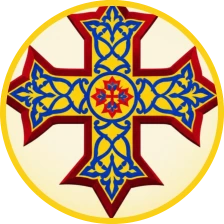
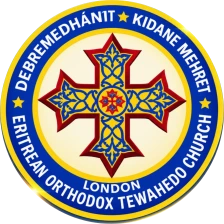
Serve the whole Kidane Mihret badge, not a crop of it
Reverses yesterday's crop. The blue ring is the badge, and cutting it out
to enlarge the cross was wrong.

The reasoning had been borrowed from diocese-midlands: ring lettering is
illegible below about 60px, so crop to the emblem. Three things said the
precedent did not transfer, and I should have read any of them.

The blue ring is the club's dominant colour and the thing that identifies
it on a 24px tile. Text nobody can read at that size is what every real
football crest has; it is not a defect to remove.

The crop needed an INVENTED gold rim to work at all. The club colour is
#FFFFFF and the cropped disc is cream, so removing the ring left the
crest with no edge and a hairline had to be fabricated to replace the
structure the crop had deleted. Having to invent a substitute for what
you just removed is the tell, and it was in my own commit.

And it measured worse at every size. Ink against white:

                62px    44px    24px    22px
  whole badge   61.9%   61.5%   62.7%   64.3%
  cropped       51.9%   51.9%   52.4%   51.7%
  old monogram    -     20.1%     -       -

What made diocese-midlands different: a fine-detailed coat of arms
filling a third of its frame, in a slot only ever drawn at 24px. Here the
emblem is a bold cross and the largest slot is 62px. Recorded in both
CLAUDE.md and source-art/README.md as a rule - check that a precedent's
conditions hold before borrowing its conclusion.
[…]

diff --git a/web/sw.js b/web/sw.js
@@ -7,7 +7,7 @@
  * last-known copy for offline boot. Bump VERSION on any deploy that should
  * push a fresh shell.
  */
-const VERSION = 'cofta-v88';
+const VERSION = 'cofta-v89';
 const SHELL = [
   './', './index.html', './diocese.webp',
   // Code and stylesheets carry the build token, because THE BROWSER'S OWN HTTP
@@ -17,9 +17,9 @@ const SHELL = [
   // be answered from it, because on a fresh deploy the URL is one the browser
   // has never seen. These must stay in step with index.html and app.js;
   // tools/check-build.sh fails if they drift.
-  './styles.css?b=cofta-v88', './fonts.css?b=cofta-v88', './themes.css?b=cofta-v88',
-  './app.js?b=cofta-v88', './api.js?b=cofta-v88', './model.js?b=cofta-v88',
-  './queue.js?b=cofta-v88', './crests.js?b=cofta-v88',
+  './styles.css?b=cofta-v89', './fonts.css?b=cofta-v89', './themes.css?b=cofta-v89',
+  './app.js?b=cofta-v89', './api.js?b=cofta-v89', './model.js?b=cofta-v89',
+  './queue.js?b=cofta-v89', './crests.js?b=cofta-v89',
   './manifest.webmanifest',
   // The home-screen icons. Cache-first like every other asset, so a phone
   // that already installed the app only refetches them when VERSION moves.

diff --git a/web/index.html b/web/index.html
@@ -13,9 +13,9 @@
 <link rel="apple-touch-icon" sizes="180x180" href="./apple-touch-icon.png">
 <link rel="preload" href="./fonts/big-shoulders-display-latin-900-normal.woff2" as="font" type="font/woff2" crossorigin>
 <link rel="preload" href="./fonts/saira-condensed-latin-600-normal.woff2" as="font" type="font/woff2" crossorigin>
-<link rel="stylesheet" href="./fonts.css?b=cofta-v88">
-<link rel="stylesheet" href="./styles.css?b=cofta-v88">
-<link rel="stylesheet" href="./themes.css?b=cofta-v88">
+<link rel="stylesheet" href="./fonts.css?b=cofta-v89">
+<link rel="stylesheet" href="./styles.css?b=cofta-v89">
+<link rel="stylesheet" href="./themes.css?b=cofta-v89">
 </head>
 <body>
 <div class="app">
@@ -56,6 +56,6 @@
   </nav>
   <main class="scroll" id="body"><p class="empty">Loading&hellip;</p></main>
 </div>
-<script type="module" src="./app.js?b=cofta-v88"></script>
+<script type="module" src="./app.js?b=cofta-v89"></script>
 </body>
 </html>

diff --git a/web/app.js b/web/app.js
@@ -5,10 +5,10 @@
  * from timestamps, so it ticks smoothly at 60fps between polls and never
  * lags. Admins get the same views plus the write controls.
  */
-import { CREST } from './crests.js?b=cofta-v88';
-import * as api from './api.js?b=cofta-v88';
-import * as M from './model.js?b=cofta-v88';
-import { WriteQueue } from './queue.js?b=cofta-v88';
+import { CREST } from './crests.js?b=cofta-v89';
+import * as api from './api.js?b=cofta-v89';
+import * as M from './model.js?b=cofta-v89';
+import { WriteQueue } from './queue.js?b=cofta-v89';
 
 /** This build, read off our own module URL so it can never disagree with it. */
 const BUILD = new URL(import.meta.url).searchParams.get('b') ?? 'dev';

diff --git a/CLAUDE.md b/CLAUDE.md
@@ -290,31 +290,36 @@ against `getBoundingClientRect()`, at 375px and desktop, in every state
   with the real Hove club. **"Kidane Mihret" is the confirmed spelling**
   (organiser, 24 August) — it is what `teams.name` already held, so nothing
   changed, and it is now settled rather than provisional.
-- **The real Kidane Mihret crest landed 25 August**, replacing the KM
-  monogram, and like the Midlands diocese seal **it is served cropped**. The
-  artwork as supplied is a full seal: a Coptic cross on a cream disc inside a
-  blue ring of lettering reading *Debremedhánit · Kidane Mehret · Eritrean
-  Orthodox Tewahedo Church · London*. At the 22–62px a club crest is drawn at,
-  that ring is texture — the served file is the cross alone.
-  Geometry, so it can be redone: source centre of the **cross** is (1570, 1809),
-  which is 13px above the seal's own centre (1568, 1822) and is why a
-  seal-centred crop looked bottom-heavy. Circular mask at **r = 925** —
-  the cross tips reach 886, and the nearest lettering is "LONDON" on its own
-  inner arc at 971 from that centre, so 925 sits between them. Rendered at 4×
-  with a hard clip and downscaled, because GDI+ and canvas clipping are both
-  hard-edged and the downscale is what gives the alpha edge its
-  anti-aliasing.
-- **The gold rim on that crest is added, not cropped, and it has to be.**
-  Kidane Mihret's club colour is `#FFFFFF` and the cropped disc is cream, so
-  without an edge the crest dissolves into its own half of the match header.
-  The rim is the seal's own gold, sampled from the ring it replaces
-  (`#FAD016`, averaged over 947 pixels). Same rule as `smpk.webp`: separation
-  is fixed in the asset, never in CSS.
-  Measured against white it reads across **52% of the frame at 44px, 24px and
-  22px alike**, against 20.1% for the monogram it replaced.
-- **`source-art/km-seal.webp` keeps the uncropped seal** at 1024px, where the
-  lettering is still readable. The crop is a rendering decision for a small
-  slot, not a correction to the artwork.
+- **The real Kidane Mihret crest landed 25 August** and is served **WHOLE** —
+  the full badge, blue lettering ring and all. Circular mask at **r = 1484**
+  around centre (1568, 1822): the outer gold edge sits at 1479–1483 and the
+  soft drop shadow beyond it starts at ~1487, deliberately excluded because the
+  app draws its own shadow in CSS. Rendered at 4× with a hard clip and
+  downscaled, because GDI+ and canvas clipping are both hard-edged and the
+  downscale is what gives the alpha edge its anti-aliasing.
+- **IT WAS SHIPPED CROPPED FIRST, AND THAT WAS WRONG.** The reasoning was the
+  Midlands diocese seal's: the ring lettering is illegible below about 60px, so
+  crop to the emblem. **The precedent does not transfer, and three things said
+  so.**
+  - **The blue ring is the badge.** It is the club's dominant colour and the
+    thing that identifies it on a tile. Illegible text on a badge at 24px is
+    what every real football crest does; it is not a defect to remove.
+  - **The crop needed an invented gold rim to work at all.** The club colour is
+    `#FFFFFF` and the cropped disc is cream, so with the ring gone the crest
+    had no edge — a hairline had to be fabricated to replace the structure the
+    crop removed. Needing to invent a substitute for what you just deleted is
+    the tell.
+  - **And it measured worse.** Ink against white, whole vs cropped:
+    62/62/63/64% at 62/44/24/22px against 52%, and 20.1% for the monogram both
+    replaced. The whole badge is more visible at *every* size, not just large.
+
+  What made the Midlands case different: a fine-detailed coat of arms filling a
+  third of its frame, in a 24px-only slot. Here the emblem is a bold cross and
+  the largest slot is 62px. **Check whether a precedent's conditions actually
+  hold before borrowing its conclusion.**
+- **`source-art/km-seal.webp` keeps the supplied seal** at 1024px. Still worth
+  having: the served file is masked and downscaled, and anything needing the
+  original geometry should start from that rather than from `web/`.
 - **THE SEAL SPELLS IT "KIDANE MEHRET", THE APP SPELLS IT "KIDANE MIHRET",
   and the app is not being changed.** Adam confirmed the `i` spelling on
   24 August, a day before the crest arrived; the organiser's word is canonical

diff --git a/source-art/README.md b/source-art/README.md
@@ -53,43 +53,42 @@ emblem on screen — dark pixels in a 24×24 render go from 86 to 158, against
 is a rendering decision for one small slot, not a correction to the artwork;
 anything that needs the full seal at a legible size takes it from this file.
 
-## km-seal is also cropped, for the same reason as diocese-midlands
+## km is served WHOLE, and the diocese-midlands rule did NOT transfer
 
-The Kidane Mihret crest as supplied is a full seal: a Coptic cross on a cream
-disc inside a blue ring reading *Debremedhánit · Kidane Mehret · Eritrean
-Orthodox Tewahedo Church · London*. A club crest is drawn at 22–62px, where
-that ring is texture rather than words.
+The Kidane Mihret badge is a Coptic cross on a cream disc inside a blue ring
+reading *Debremedhánit · Kidane Mehret · Eritrean Orthodox Tewahedo Church ·
+London*. `web/crests/km.webp` is all of it: circular mask at **r = 1484**
+around centre **(1568, 1822)**, output 224×224 webp at quality 0.92, 26 KB.
+The outer gold edge sits at 1479-1483 and the soft drop shadow beyond it starts
+at ~1487 - excluded on purpose, because the app applies its own shadow in CSS.
 
-`web/crests/km.webp` is the cross alone. The geometry, so it can be redone:
+**It was shipped cropped to the cross first, and that was a mistake.** The
+reasoning borrowed from diocese-midlands above: ring lettering is illegible at
+small sizes, so crop to the emblem. Three things said the precedent did not
+transfer.
 
-| | |
-|---|---|
-| source | the supplied 3210×3736 JPEG (12 MP) |
-| centre | **(1570, 1809)** — the centre of the CROSS |
-| radius | **925**, circular mask |
-| output | 224×224 webp, quality 0.92, 21 KB |
+1. **The blue ring is the badge.** It is the club's dominant colour and what
+   identifies it on a 24px tile. Unreadable text on a crest at that size is
+   what every real football badge does.
+2. **The crop needed an invented gold rim.** The club colour is `#FFFFFF` and
+   the cropped disc is cream, so removing the ring left the crest with no edge
+   and a hairline had to be fabricated to replace it. Having to invent a
+   substitute for what you just deleted is the tell.
+3. **It measured worse at every size.** Ink against white, whole vs cropped:
 
-The cross sits **13px above the seal's own centre** (1568, 1822), which is why
-a seal-centred crop looks bottom-heavy — the first attempt clipped the lower
-point. The radius is bounded on both sides: the cross tips reach 886, and the
-nearest lettering is "LONDON", set on its own inner arc at 971 from the cross
-centre. 925 sits between them.
+   | | 62px | 44px | 24px | 22px |
+   |---|---|---|---|---|
+   | whole badge | 61.9% | 61.5% | 62.7% | 64.3% |
+   | cropped | 51.9% | 51.9% | 52.4% | 51.7% |
+   | old KM monogram | - | 20.1% | - | - |
 
-Rendered at 4× with a hard clip and then downscaled. Both GDI+ and canvas
-clipping are hard-edged; the downscale is what gives the alpha edge its
-anti-aliasing.
+What made diocese-midlands different: a fine-detailed coat of arms filling a
+third of its frame, in a slot only ever drawn at 24px. Here the emblem is a
+bold cross and the largest slot is 62px. Check that a precedent's conditions
+hold before borrowing its conclusion.
 
-**The gold rim is added, not cropped.** The club colour is `#FFFFFF` and the
-cropped disc is cream, so without an edge the crest dissolves into its own half
-of the match header. It is the seal's own gold — `#FAD016`, averaged over 947
-pixels of the ring it replaces — drawn 24px wide at 4×. Same rule as
-`smpk.webp`: separation is fixed in the asset, never in CSS.
-
-Measured against white it reads across 52% of the frame at 44, 24 and 22px
-alike; the KM monogram it replaced managed 20.1%.
-
-**`km-seal.webp` here is the uncropped seal at 1024px**, where the lettering is
-still readable, and must stay that way.
+**`km-seal.webp` is the supplied seal at 1024px.** The served file is masked
+and downscaled; anything needing the original geometry starts here.
 
 ## There IS one piece of image tooling after all
 
